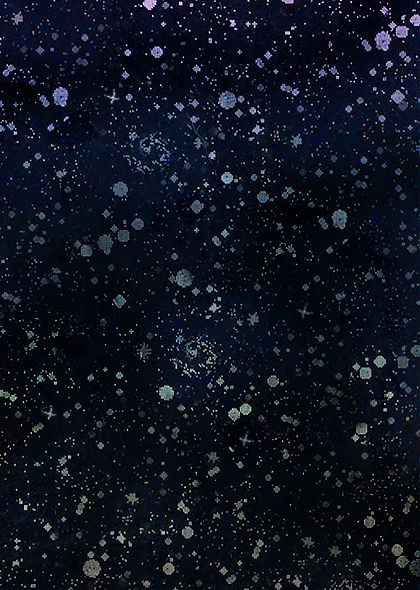
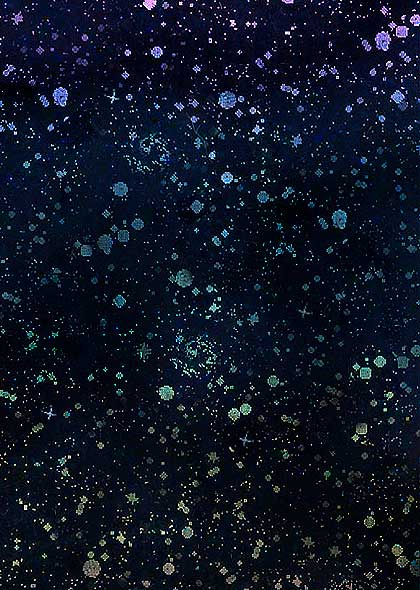
replace huge webp (??) with compressed / optimised png/jpg

diff --git a/public/css/cards.css b/public/css/cards.css
@@ -273,7 +273,7 @@
   --angle: 133deg;
   --imgsize: 60% 30%;
   background-image:
-    url("../img/vmaxbg.webp"),
+    url("../img/vmaxbg.jpg"),
     repeating-linear-gradient( -33deg, 
       rgb(206, 42, 36) calc(var(--space)*1),  
       rgb(157, 170, 223) calc(var(--space)*2), 
@@ -327,10 +327,10 @@
 
   --space: 5%;
   --angle: 133deg;
-  --imgsize: 30%;
+  --imgsize: 18%;
 
   background-image:
-    url("../img/ancient.webp"),
+    url("../img/ancient.png"),
     repeating-linear-gradient( 0deg, 
       rgb(255, 119, 115) calc(var(--space)*1), 
       rgba(255,237,95,1) calc(var(--space)*2), 
@@ -361,7 +361,7 @@
   background-size: var(--imgsize), 200% 700%, 300%, 200%;
   background-position: center, 0% var(--posy), var(--posx) var(--posy), var(--posx) var(--posy);
   
-  filter: brightness(.8) contrast(2) saturate(.75);
+  filter: brightness(calc((var(--hyp) * .5) + 0.5)) contrast(2) saturate(.75);
 
 }
 
@@ -372,7 +372,7 @@
   background-size: var(--imgsize), 200% 400%, 195%, 200%;
   background-position: center, 0% var(--posy), calc( var(--posx) * -1) calc( var(--posy) * -1), var(--posx) var(--posy);
 
-  filter: brightness(1.2) contrast(1.5) saturate(1.75);
+  filter: brightness(calc((var(--hyp) * .5) + 0.8)) contrast(1.5) saturate(1.75);
   mix-blend-mode: exclusion;
 
 }
@@ -395,7 +395,7 @@
   --imgsize: 50%;
 
   background-image:
-    url("../img/illusion.webp"),
+    url("../img/illusion.png"),
     repeating-linear-gradient( 0deg, 
       rgb(255, 119, 115) calc(var(--space)*1), 
       rgba(255,237,95,1) calc(var(--space)*2), 
@@ -457,10 +457,10 @@
 
   --space: 5%;
   --angle: 133deg;
-  --imgsize: 50%;
+  --imgsize: 25%;
 
   background-image:
-  url("../img/trainerbg.jpg"),
+  url("../img/trainerbg.png"),
     repeating-linear-gradient( 0deg, 
       rgb(255, 119, 115) calc(var(--space)*1), 
       rgba(255,237,95,1) calc(var(--space)*2), 
@@ -527,7 +527,7 @@
   --imgsize: 150% 200%;
 
   background-image:
-    url("../img/rainbow2.jpg"),
+    url("../img/glitter.png"),
     repeating-linear-gradient( var(--angle), 
       rgb(253, 71, 65) calc(var(--rainbowspace)*1), 
       rgb(255, 243, 151) calc(var(--rainbowspace)*2), 
@@ -545,7 +545,7 @@
       rgba(14, 21, 46, 0.5) calc(var(--overlayspace)*5) , 
       rgba(14, 21, 46, 0.5) calc(var(--overlayspace)*6) 
     ),
-    url("../img/illusion2.webp");
+    url("../img/illusion2.png");
 
   background-size: 50% 50%, 500% 500%, 1000% 1000%, var(--imgsize);
   background-position: center, calc( var(--posx) * 1.5 ) calc( var(--posy) * 1.5 ), calc( var(--posx) * 1.5 ) var(--posy), bottom left;
@@ -591,10 +591,10 @@
 .card[data-rarity="rare secret"] .card__shine:after {
 
   --angle: 110deg;
-  --imgsize: 250px;
+  --imgsize: 38%;
 
   background-image:
-    url("../img/rainbow2.jpg"),
+    url("../img/glitter.png"),
     repeating-linear-gradient( var(--angle), 
       rgba(89, 46, 80, 0.5) 0%, 
       hsl(39, 37%, 60%) 2.5%, 
@@ -603,7 +603,7 @@
       rgba(14, 21, 46, 0.5) 10% , 
       rgba(14, 21, 46, 0.5) 15% 
     ), 
-    url("../img/metal.webp");
+    url("../img/metal.png");
 
   background-size: 50% 50%, 600% 600%, var(--imgsize);
   background-position: center, var(--posx) var(--posy), center;
@@ -619,7 +619,7 @@
   content: "";
 
   background-image:
-    url("../img/rainbow2.jpg"),
+    url("../img/glitter.png"),
     repeating-linear-gradient( var(--angle), 
       rgba(89, 46, 80, 0.5) 0%, 
       hsl(39, 37%, 60%) 2.5%, 
@@ -731,7 +731,7 @@
   content: "";
 
   background-image: 
-    url("../img/rainbow2.jpg"), 
+    url("../img/glitter.png"), 
     repeating-linear-gradient( 55deg, 
     rgb(255, 161, 158) calc(var(--space)*1), 
     rgb(85, 178, 255) calc(var(--space)*2), 
@@ -847,7 +847,7 @@
 
   --space: 5%;
   --angle: 133deg;
-  --img: url("../img/illusion.webp");
+  --img: url("../img/illusion.png");
   --imgsize: 60%;
 
   background-image:
@@ -902,7 +902,7 @@
 .card[data-rarity="rare holo v"][data-gallery="true"][data-subtypes*="vmax"] .card__shine,
 .card[data-rarity="rare holo v"][data-gallery="true"][data-subtypes*="vmax"] .card__shine:after {
 
-    --img: url("../img/stylish.webp");
-    --imgsize: 48%;
+    --img: url("../img/stylish.png");
+    --imgsize: 30%;
 
 }

diff --git a/src/lib/components/card.svelte b/src/lib/components/card.svelte
@@ -226,10 +226,10 @@
 		--posx: ${$springBackground.x}%;
 		--posy: ${$springBackground.y}%;
 		--hyp: ${
-      Math.sqrt(
+      clamp( Math.sqrt(
         ($springGlare.y - 50) * ($springGlare.y - 50) +
           ($springGlare.x - 50) * ($springGlare.x - 50)
-      ) / 50
+      ) / 50, 0, 1)
     };
     --galaxybg: center ${galaxyPosition}px;
 	`;

diff --git a/README.md b/README.md
@@ -22,3 +22,13 @@ If you think this is super cool, or useful, and want to donate a little, then yo
 | <img src="https://user-images.githubusercontent.com/2817396/149629283-6002944f-9253-4e35-917d-89b476deae4e.png" width=20> | [![£1 One Pound tip](https://user-images.githubusercontent.com/2817396/149629980-08b9a952-bd6a-4c23-be78-05e3fd534352.png)](https://www.paypal.com/paypalme/simey/1) | [£1 tip](https://www.paypal.com/paypalme/simey/1) |
 | <img src="https://user-images.githubusercontent.com/2817396/149629283-6002944f-9253-4e35-917d-89b476deae4e.png" width=20> | [![£5 Five Pounds tip](https://user-images.githubusercontent.com/2817396/149629994-3a99770c-d333-46e7-9818-ab6b18ad0202.png)](https://www.paypal.com/paypalme/simey/5) | [£5 tip](https://www.paypal.com/paypalme/simey/5) |
 | <img src="https://user-images.githubusercontent.com/2817396/149629283-6002944f-9253-4e35-917d-89b476deae4e.png" width=20> | [![£10 Ten Pounds tip](https://user-images.githubusercontent.com/2817396/149630000-95aa4234-ff67-4e7c-a7f4-ffd52f25e6d8.png)](https://www.paypal.com/paypalme/simey/10) | [£10 tip](https://www.paypal.com/paypalme/simey/10) |
+
+
+
+
+
+---
+#### attribution
+
+<sub>- Galaxy Holo from [aschefield101](https://www.deviantart.com/aschefield101/art/HoloSheet-2012-313543843)</sub>  
+<sub>- Some backgrounds from [Vecteezy](https://www.vecteezy.com/free-photos)</sub>
